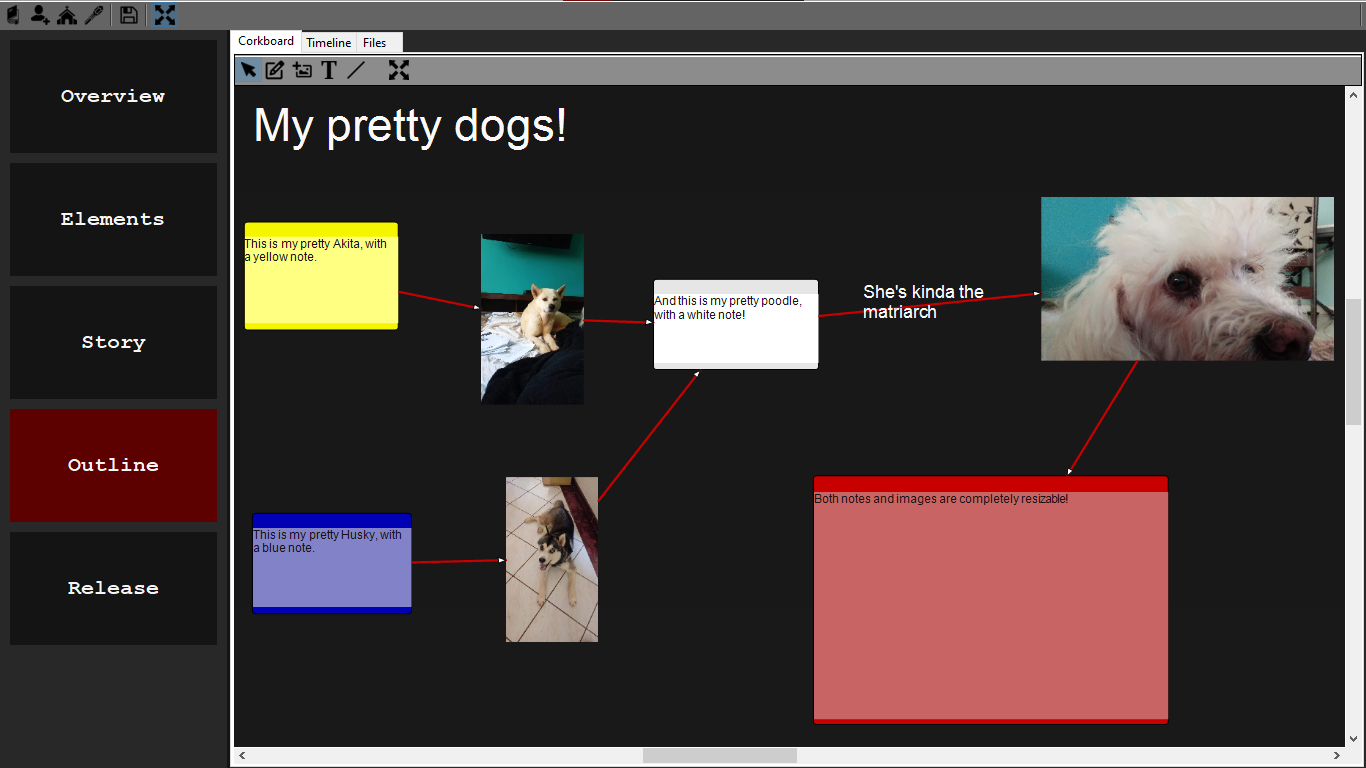
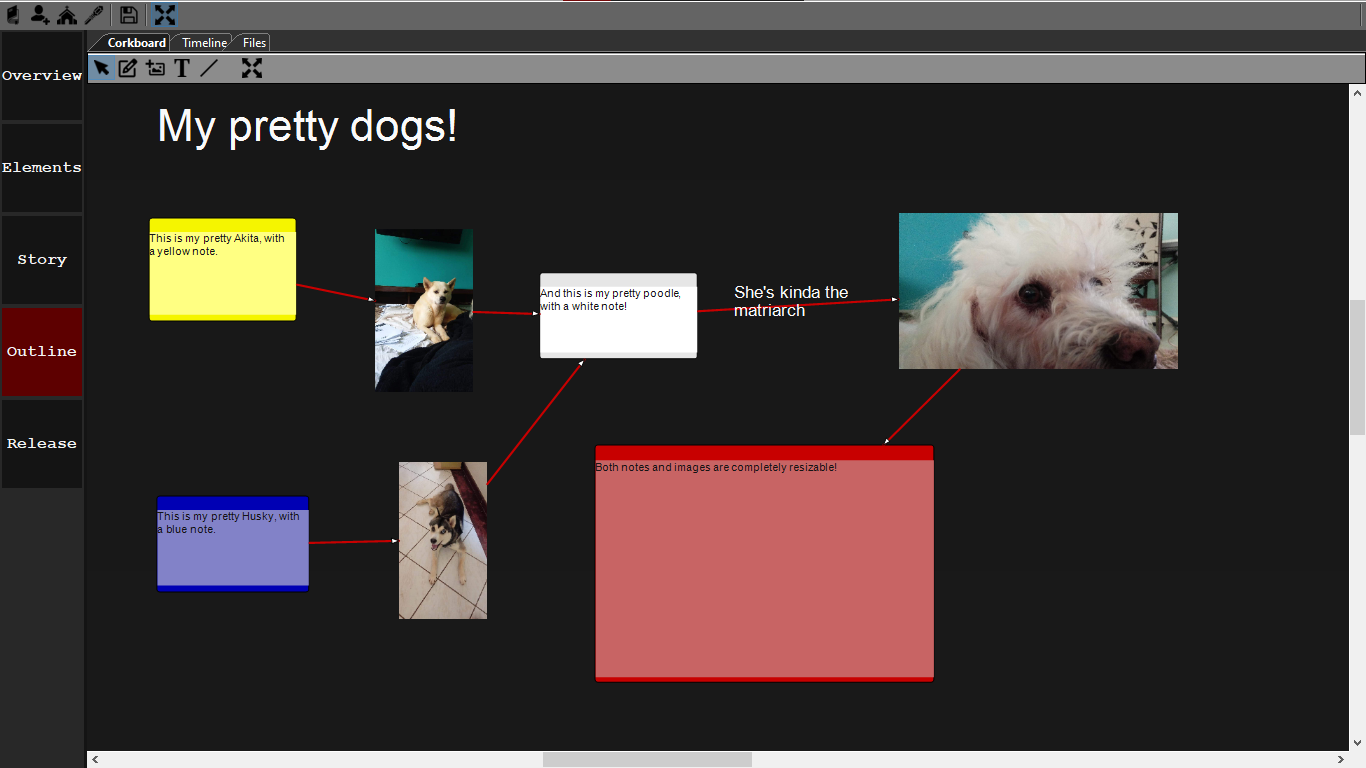
- Optimized 'Document::GetWordCount()'.     - Got rid of potential bugs in 'amElementShowcase::LoadFirstPanel()'.     - Changed all wxNotebooks to wxAuiNotebooks, for better Dark Mode integration.     - amProjectManager now holds a pointer to a Book (m_pCurrentBook).     - Updated screenshots.

diff --git a/src/ElementShowcases.cpp b/src/ElementShowcases.cpp
@@ -1200,13 +1200,14 @@ bool amCharacterShowcase::LoadFirstPanel(Element* element)
 
 	if ( currentCustomCount > characterCustomCount )
 	{
-		pair<wxStaticText*, wxTextCtrl*>* it = m_custom.end() - 1;
 
 		for ( int i = (currentCustomCount - 1); i > (characterCustomCount - 1); i-- )
 		{
-			it->first->Destroy();
-			it->second->Destroy();
-			m_custom.erase(it--);
+			pair<wxStaticText*, wxTextCtrl*>& it = m_custom[i];
+
+			it.first->Destroy();
+			it.second->Destroy();
+			m_custom.erase(&it);
 		}
 	}
 
@@ -1254,7 +1255,7 @@ bool amCharacterShowcase::LoadFirstPanel(Element* element)
 		nol = textCtrl->GetNumberOfLines();
 
 		if ( nol > 5 )
-			textCtrl->SetMinSize(wxSize(-1, (nol * textCtrl->GetCharHeight()) + 5));
+			textCtrl->SetMinSize(wxSize(-1, (nol + 4) * textCtrl->GetCharHeight()));
 		else
 			textCtrl->SetMinSize(size);
 	}
@@ -1498,13 +1499,14 @@ bool amLocationShowcase::LoadFirstPanel(Element* element)
 
 	if ( currentCustomCount > locationCustomCount )
 	{
-		pair<wxStaticText*, wxTextCtrl*>* it = m_custom.end() - 1;
-
 		for ( int i = (currentCustomCount - 1); i > (locationCustomCount - 1); i-- )
 		{
-			it->first->Destroy();
-			it->second->Destroy();
-			m_custom.erase(it--);
+			pair<wxStaticText*, wxTextCtrl*>& it = m_custom[i];
+
+			it.first->Destroy();
+			it.second->Destroy();
+
+			m_custom.erase(&it);
 
 			m_first = !m_first;
 		}
@@ -1568,7 +1570,7 @@ bool amLocationShowcase::LoadFirstPanel(Element* element)
 		nol = textCtrl->GetNumberOfLines();
 
 		if ( nol > 5 )
-			textCtrl->SetMinSize(wxSize(-1, (nol * textCtrl->GetCharHeight()) + 5));
+			textCtrl->SetMinSize(wxSize(-1, (nol + 4) * textCtrl->GetCharHeight()));
 		else
 			textCtrl->SetMinSize(size);
 	}
@@ -1868,13 +1870,14 @@ bool amItemShowcase::LoadFirstPanel(Element* element)
 
 	if ( currentCustomCount > itemCustomCount )
 	{
-		pair<wxStaticText*, wxTextCtrl*>* it = m_custom.end() - 1;
 
 		for ( int i = (currentCustomCount - 1); i > (itemCustomCount - 1); i-- )
 		{
-			it->first->Destroy();
-			it->second->Destroy();
-			m_custom.erase(it--);
+			pair<wxStaticText*, wxTextCtrl*>& it = m_custom[i];
+
+			it.first->Destroy();
+			it.second->Destroy();
+			m_custom.erase(&it);
 		}
 	}
 
@@ -1922,7 +1925,7 @@ bool amItemShowcase::LoadFirstPanel(Element* element)
 	for ( wxTextCtrl*& textCtrl : vTextCtrls )
 	{
 		int nol = textCtrl->GetNumberOfLines();
-		textCtrl->SetMinSize(wxSize(-1, nol > 5 ? ((nol * textCtrl->GetCharHeight()) + 5) : 80));
+		textCtrl->SetMinSize(wxSize(-1, nol > 5 ? ((nol + 4) * textCtrl->GetCharHeight()) : 80));
 	}
 
 	m_mainVerSizer->FitInside(m_mainPanel);

diff --git a/src/ProjectManager.cpp b/src/ProjectManager.cpp
@@ -1263,31 +1263,8 @@ void amProjectManager::SetProjectFileName(const wxFileName& fileName)
 
 bool amProjectManager::SetCurrentBook(Book* book)
 {
-	if ( m_storyWriter )
-	{
-		wxMessageDialog dialog(m_mainFrame, "The Amadeus Story Writer is open and currently in use.\n"
-			"To switch books, you need to close it first. Do you wish to close it and load the new book?",
-			"Story Writer is in use", wxYES_NO);
-
-		if ( dialog.ShowModal() != wxID_YES )
-			return false;
-		
-		if ( !m_storyWriter->Close(true) )
-			return false;
-
-		m_storyWriter = nullptr;
-	}
-
-	DoSetCurrentBook(book);
-	return true;
-}
-
-void amProjectManager::DoSetCurrentBook(Book* book)
-{
 	if ( !book )
-		return;
-
-	//LoadBookContent(book, true);
+		return false;
 
 	m_overview->SetBookData(book);
 
@@ -1301,8 +1278,9 @@ void amProjectManager::DoSetCurrentBook(Book* book)
 
 	m_storyNotebook->SetBookData(book);
 	m_release->SetBookData(book);
-	
-	m_currentBookPos = book->pos;
+
+	m_pCurrentBook = book;
+	return true;
 }
 
 amMainFrame* amProjectManager::GetMainFrame()
@@ -1993,7 +1971,7 @@ void amProjectManager::DeleteDocument(Document* document)
 
 wxVector<Document*>& amProjectManager::GetDocumentsInCurrentBook()
 {
-	return m_project.GetDocuments(m_currentBookPos);
+	return m_pCurrentBook->documents;
 }
 
 Document* amProjectManager::GetDocumentById(int id)

diff --git a/src/BookElements.cpp b/src/BookElements.cpp
@@ -50,23 +50,29 @@ bool Document::HasRedNote()
 
 int Document::GetWordCount()
 {
-	amProjectSQLDatabase* pDb = amGetManager()->GetStorage();
-	wxSQLite3ResultSet result = pDb->ExecuteQuery("SELECT plain_text FROM documents WHERE id = " + std::to_string(id));
-
-	int count = 0;
-
-	if ( result.NextRow() )
+	if ( bIsDirty )
 	{
-		std::string content = result.GetAsString("plain_text");
+		amProjectSQLDatabase* pDb = amGetManager()->GetStorage();
+		wxSQLite3ResultSet result = pDb->ExecuteQuery("SELECT plain_text FROM documents WHERE id = " + std::to_string(id));
 
-		if ( !content.empty() )
+		int count = 0;
+
+		if ( result.NextRow() )
 		{
-			std::stringstream sstream(content);
-			count = std::distance(std::istream_iterator<std::string>(sstream), std::istream_iterator<std::string>());
+			std::string content = result.GetAsString("plain_text");
+
+			if ( !content.empty() )
+			{
+				std::stringstream sstream(content);
+				count = std::distance(std::istream_iterator<std::string>(sstream), std::istream_iterator<std::string>());
+			}
 		}
+
+		nWordCount = count;
+		bIsDirty = false;
 	}
 
-	return count;
+	return nWordCount;
 }
 
 void Document::Save(wxSQLite3Database* db)

diff --git a/src/ProjectManager.h b/src/ProjectManager.h
@@ -119,7 +119,7 @@ private:
 
 	bool m_isInitialized = false;
 
-	int m_currentBookPos = 1;
+	Book* m_pCurrentBook = nullptr;
 
 public:
 	amProjectManager();
@@ -159,7 +159,6 @@ public:
 
 	bool SetCurrentBook(int bookPos) { return SetCurrentBook(m_project.books[bookPos - 1]); }
 	bool SetCurrentBook(Book* book);
-	void DoSetCurrentBook(Book* book);
 
 	amMainFrame* GetMainFrame();
 	amElementNotebook* GetElementsNotebook();
@@ -219,8 +218,8 @@ public:
 
 	inline amProject* GetProject() { return &m_project; }
 
-	inline int GetCurrentBookPos() { return m_currentBookPos; }
-	inline Book* GetCurrentBook() { return m_project.books[m_currentBookPos - 1]; }
+	inline int GetCurrentBookPos() { return m_pCurrentBook->pos; }
+	inline Book* GetCurrentBook() { return m_pCurrentBook; }
 
 	inline wxVector<Book*>& GetBooks() { return m_project.books; }
 	inline wxVector<Character*> GetCharacters() { return m_project.GetCharacters(); }

diff --git a/src/StoryNotebook.cpp b/src/StoryNotebook.cpp
@@ -2,13 +2,21 @@
 #include "StoryWriter.h"
 #include "MyApp.h"
 
-#include <wx\dir.h>
+#include <wx/dir.h>
 
 #include "wxmemdbg.h"
 
 amStoryNotebook::amStoryNotebook(wxWindow* parent, amProjectManager* manager) :
-	wxNotebook(parent, -1, wxDefaultPosition, wxDefaultSize, wxBORDER_NONE), m_manager(manager)
+	wxAuiNotebook(parent, -1, wxDefaultPosition, wxDefaultSize, wxBORDER_NONE), m_manager(manager)
 {
+	wxAuiSimpleTabArt* pArt = new wxAuiSimpleTabArt();
+	pArt->SetColour(wxColour(50, 50, 50));
+	pArt->SetActiveColour(wxColour(30, 30, 30));
+	SetArtProvider(pArt);
+
+	GetAuiManager().GetArtProvider()->SetMetric(wxAUI_DOCKART_PANE_BORDER_SIZE, 0);
+	GetAuiManager().GetArtProvider()->SetMetric(wxAUI_DOCKART_GRADIENT_TYPE, wxAUI_GRADIENT_NONE);
+
 	m_grid = new StoryGrid(this, m_manager);
 	m_grid->SetBackgroundColour(wxColour(150, 0, 0));
 

diff --git a/src/ElementsNotebook.cpp b/src/ElementsNotebook.cpp
@@ -363,9 +363,17 @@ void amElementNotebookPage::OnElementRightClick(wxListEvent & event)
 
 
 amElementNotebook::amElementNotebook(wxWindow* parent) :
-	wxNotebook(parent, -1, wxDefaultPosition, wxDefaultSize, wxBORDER_NONE)
+	wxAuiNotebook(parent, -1, wxDefaultPosition, wxDefaultSize, wxBORDER_NONE)
 {
 	m_manager = amGetManager();
+
+	wxAuiSimpleTabArt* pArt = new wxAuiSimpleTabArt();
+	pArt->SetColour(wxColour(50, 50, 50));
+	pArt->SetActiveColour(wxColour(30, 30, 30));
+	SetArtProvider(pArt);
+
+	GetAuiManager().GetArtProvider()->SetMetric(wxAUI_DOCKART_PANE_BORDER_SIZE, 0);
+	GetAuiManager().GetArtProvider()->SetMetric(wxAUI_DOCKART_GRADIENT_TYPE, wxAUI_GRADIENT_NONE);
 
 	//Setting up first notebook tab with a characters list
 	wxArrayString sortBy;

diff --git a/src/StoryWriter.cpp b/src/StoryWriter.cpp
@@ -748,8 +748,8 @@ amStoryWriter::amStoryWriter(wxWindow* parent, amProjectManager* manager, Docume
 	SetSize(FromDIP(wxSize(1100, 700)));
 	Maximize();
 
-	leftSplitter->SplitVertically(leftNotebook, m_swNotebook, FromDIP(230));
-	rightSplitter->SplitVertically(leftSplitter, rightPanel, FromDIP(1135));
+	leftSplitter->SplitVertically(leftNotebook, m_swNotebook, FromDIP(200));
+	rightSplitter->SplitVertically(leftSplitter, rightPanel, FromDIP(1150));
 	leftSplitter->SetSashGravity(0.0);
 	rightSplitter->SetSashGravity(1.0);
 
@@ -1418,6 +1418,9 @@ void amStoryWriter::OnCharRTC(wxRichTextEvent& event)
 	}
 
 	pToPush->book->PushRecentDocument(pToPush);
+
+	if ( !pToPush->bIsDirty )
+		pToPush->bIsDirty = true;
 }
 
 

diff --git a/src/Outline.cpp b/src/Outline.cpp
@@ -7,8 +7,16 @@
 
 #include "wxmemdbg.h"
 
-amOutline::amOutline(wxWindow* parent) : wxNotebook(parent, -1)
+amOutline::amOutline(wxWindow* parent) : wxAuiNotebook(parent, -1, wxDefaultPosition, wxDefaultSize, wxBORDER_NONE)
 {
+	wxAuiSimpleTabArt* pArt = new wxAuiSimpleTabArt();
+	pArt->SetColour(wxColour(50, 50, 50));
+	pArt->SetActiveColour(wxColour(30, 30, 30));
+	SetArtProvider(pArt);
+
+	GetAuiManager().GetArtProvider()->SetMetric(wxAUI_DOCKART_PANE_BORDER_SIZE, 0);
+	GetAuiManager().GetArtProvider()->SetMetric(wxAUI_DOCKART_GRADIENT_TYPE, wxAUI_GRADIENT_NONE);
+
 	m_corkboardHolder = new wxPanel(this);
 	m_corkboard = new amCorkboard(m_corkboardHolder);
 

diff --git a/src/Overview.cpp b/src/Overview.cpp
@@ -114,7 +114,7 @@ amOverview::amOverview(wxWindow* parent, amProjectManager* manager) : wxPanel(pa
 	sizer->Add(m_stBookTitle, wxSizerFlags(1).Top());
 
 	wxStaticText* pRecentDocumentsLabel = new wxStaticText(this, -1, _("Recent Documents:"));
-	pRecentDocumentsLabel->SetBackgroundColour(wxColour(40, 40, 40));
+	pRecentDocumentsLabel->SetBackgroundColour(wxColour(60, 60, 60));
 	pRecentDocumentsLabel->SetForegroundColour(wxColour(240,240,240));
 	pRecentDocumentsLabel->SetFont(wxFontInfo(10).Bold());
 

diff --git a/src/Outline.h b/src/Outline.h
@@ -2,12 +2,12 @@
 #define OUTLINE_H_
 #pragma once
 
-#include <wx/notebook.h>
+#include <wx/aui/aui.h>
 #include <wx/panel.h>
 #include <wx/progdlg.h>
 #include <wx/splitter.h>
 
-#include <wx\sstream.h>
+#include <wx/sstream.h>
 
 #include "ProjectManager.h"
 
@@ -16,7 +16,7 @@ class amCorkboard;
 class amTLTimeline;
 class amOutlineFilesPanel;
 
-class amOutline : public wxNotebook
+class amOutline : public wxAuiNotebook
 {
 private:
 	amCorkboard* m_corkboard = nullptr;

diff --git a/src/StoryNotebook.h b/src/StoryNotebook.h
@@ -3,9 +3,9 @@
 
 #pragma once
 
-#include <wx\notebook.h>
-#include <wx\listctrl.h>
-#include <wx\wrapsizer.h>
+#include <wx/aui/auibook.h>
+#include <wx/listctrl.h>
+#include <wx/wrapsizer.h>
 
 #include "MainFrame.h"
 
@@ -14,7 +14,7 @@
 class StoryGrid;
 struct Document;
 
-class amStoryNotebook : public wxNotebook
+class amStoryNotebook : public wxAuiNotebook
 {
 private:
 	amProjectManager* m_manager = nullptr;

diff --git a/src/ElementsNotebook.h b/src/ElementsNotebook.h
@@ -4,7 +4,7 @@
 #pragma once
 
 #include <wx\wx.h>
-#include <wx\notebook.h>
+#include <wx\aui\auibook.h>
 #include <wx\listctrl.h>
 #include <wx\combo.h>
 #include <wx\srchctrl.h>
@@ -60,7 +60,7 @@ public:
 	void OnCheckListBox(wxCommandEvent& event);
 };
 
-class amElementNotebook : public wxNotebook
+class amElementNotebook : public wxAuiNotebook
 {
 private:
 	amProjectManager* m_manager = nullptr;
